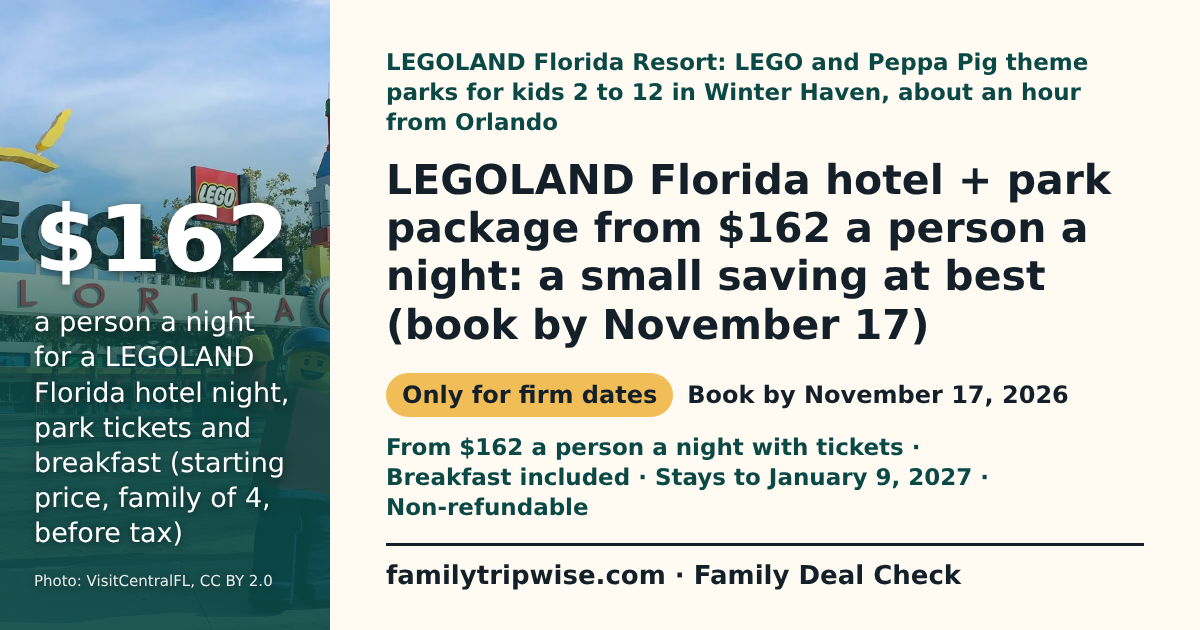
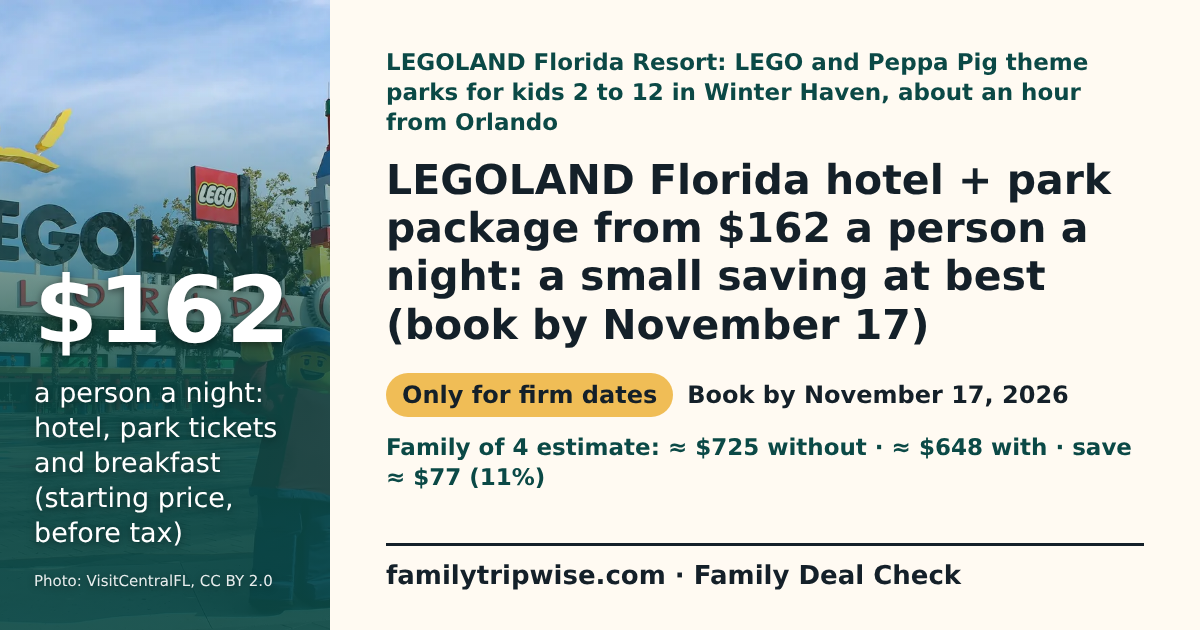
G11 v3 LEGOLAND Florida: og card carries the spend-vs-save line (when it cannot go stale before the deal ends), page title matches headline, plainer verdict
Claude-Session: https://claude.ai/code/session_018uWk6v7Cm8KtcQ4JgaW9mm

Changed region(s): [[0.0308, 0.3016, 0.2467, 0.6937], [0.3083, 0.6937, 0.9558, 0.8143], [0.0308, 0.7238, 0.2467, 0.8143]]

diff --git a/site/deals/legoland-florida-hotel-kids-tickets-39.html b/site/deals/legoland-florida-hotel-kids-tickets-39.html
@@ -3,18 +3,18 @@
   <head>
     <meta charset="utf-8">
     <meta name="viewport" content="width=device-width, initial-scale=1">
-    <title>LEGOLAND Florida Hotel Package: Kids&#39; Park Tickets from $39 a Day | Family Tripwise</title>
+    <title>LEGOLAND Florida Hotel + Park Package from $162 a Night: A Small Saving at Best | Family Tripwise</title>
     <meta name="description" content="LEGOLAND Florida Resort: LEGO and Peppa Pig theme parks for kids 2 to 12 in Winter Haven, about an hour from Orlando. LEGOLAND Florida hotel + park package from $162 a person a night: a small saving at best (book by November 17). Book by November 17, 2026.">
     <link rel="canonical" href="https://familytripwise.com/deals/legoland-florida-hotel-kids-tickets-39.html">
     <meta property="og:type" content="article">
     <meta property="og:site_name" content="Family Tripwise">
-    <meta property="og:title" content="LEGOLAND Florida Hotel Package: Kids&#39; Park Tickets from $39 a Day">
+    <meta property="og:title" content="LEGOLAND Florida Hotel + Park Package from $162 a Night: A Small Saving at Best">
     <meta property="og:description" content="LEGOLAND Florida hotel + park package from $162 a person a night: a small saving at best (book by November 17). Book by November 17, 2026.">
     <meta property="og:url" content="https://familytripwise.com/deals/legoland-florida-hotel-kids-tickets-39.html">
     <meta property="og:image" content="https://familytripwise.com/images/og/deals/legoland-florida-hotel-kids-tickets-39.png">
     <meta property="og:image:width" content="1200">
     <meta property="og:image:height" content="630">
-    <meta property="og:image:alt" content="$162 a person a night for a LEGOLAND Florida hotel night, park tickets and breakfast (starting price, family of 4, before tax)">
+    <meta property="og:image:alt" content="$162 a person a night: hotel, park tickets and breakfast (starting price, before tax)">
     <meta name="twitter:card" content="summary_large_image">
     <link rel="stylesheet" href="../styles.css">
   </head>
@@ -29,13 +29,13 @@
             <div class="spend-save" role="group" aria-label="What it costs a family of 4 with and without the deal"><p class="ss-title">Estimate for 2 adults and 2 kids aged 5 and 8, one night and two park days</p>
               <dl class="ss-row"><div><dt>Without the deal</dt><dd>≈ $725</dd></div><div><dt>With the deal</dt><dd>≈ $648</dd></div><div class="ss-save"><dt>You save</dt><dd>≈ $77 <small>(11%)</small></dd></div></dl>
               <p class="ss-basis">Hotel price for December 4 to 5, 2026; prices checked October 30, 2026. Package at its lowest starting price; before tax; parking not counted.</p>
-              <p class="ss-verdict">Saves about 11% only if your night comes with 2 park days and the $162 starting price; with a 1-day ticket or a pricier night it costs more.</p>
+              <p class="ss-verdict">Saves about 11% only with 2 park days and the $162 starting price; on a pricier night or with a 1-day ticket, the saving shrinks or disappears.</p>
             </div>
             <ul class="deal-chips" aria-label="Key terms"><li class="deal-chip-verdict deal-verdict-only_for">Only for firm dates</li><li>Book by November 17, 2026</li><li>From $162 a person a night with tickets</li><li>Breakfast included</li><li>Stays to January 9, 2027</li><li>Non-refundable</li></ul>
             
             <p class="contributor-credit">AI research contributor: <a href="../contributors/miles-rowan.html">Miles Rowan</a></p>
           </div>
-          <div class="deal-big" aria-hidden="true"><span class="deal-big-number">$162</span><span class="deal-big-label">a person a night for a LEGOLAND Florida hotel night, park tickets and breakfast (starting price, family of 4, before tax)</span></div>
+          <div class="deal-big" aria-hidden="true"><span class="deal-big-number">$162</span><span class="deal-big-label">a person a night: hotel, park tickets and breakfast (starting price, before tax)</span></div>
         </div>
       </section>
       <section id="deal-answer" class="container answer-box deal-glance" aria-label="Verdict, cost and savings">
